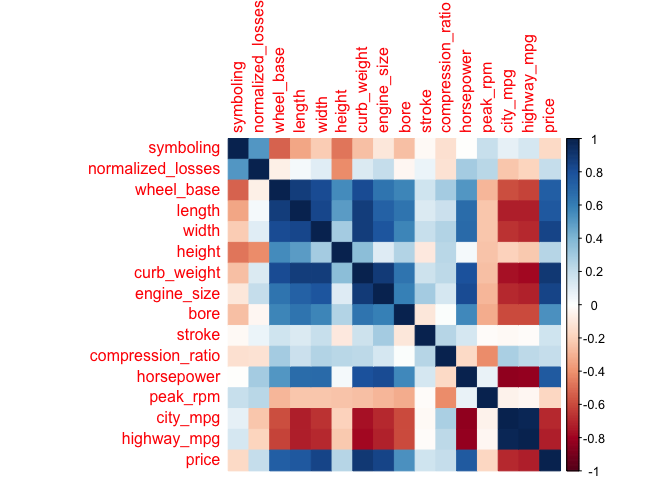
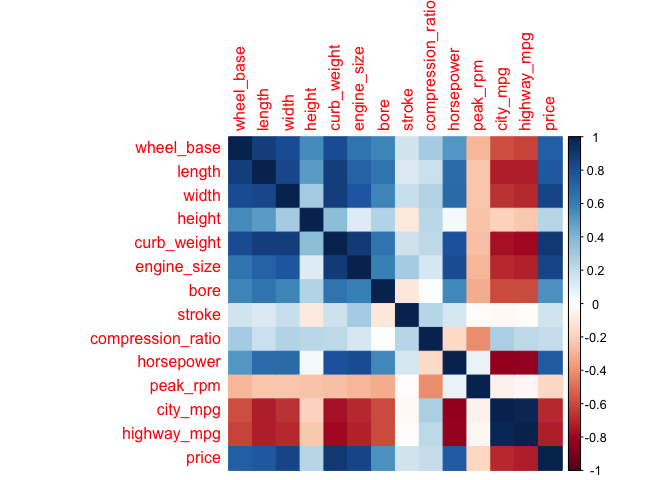
finished

diff --git a/hw01/hw01-Shrey-Samdani.md b/hw01/hw01-Shrey-Samdani.md
@@ -390,6 +390,8 @@ library(corrplot)
 
 ``` r
 qdat <- select_if(na.omit(data1), is.numeric)
+qdat$symboling <- NULL
+qdat$normalized_losses <- NULL
 M <- cor(qdat)
 ```
 
@@ -406,3 +408,65 @@ corrplot(M, method = 'circle')
 ![](hw01-Shrey-Samdani_files/figure-markdown_github/corrplot2-1.png)
 
 Based on the correlograms, there are few main patterns that can be observed. The first is that there is a strong correlation between the size features of the auto (wheel\_base, length ... bore). The second is that the size and the mpg are highly uncorrelated. The city\_mpg and highway\_mpg are also strongly correlated with each other. The price and horsepower are also positively correlated with the size, showing that bigger cars seem to cost more. It also implies that more expensive cars have worse mpg but more horsepower. Everything else is insignificant and relatively uncorrelated.
+
+8. Principal Components Analysis
+--------------------------------
+
+### Run PCA
+
+``` r
+pca_prcomp <- prcomp(qdat, scale = TRUE)
+
+eigenvalues <- pca_prcomp$sdev^2
+percentage = 100* eigenvalues / sum(eigenvalues)
+cumulative = cumsum(percentage)
+
+proportion = data.frame(eigenvalues, percentage, cumulative)
+proportion
+```
+
+    ##    eigenvalues percentage cumulative
+    ## 1   7.78036168 55.5740120   55.57401
+    ## 2   2.04609771 14.6149837   70.18900
+    ## 3   1.31815775  9.4154125   79.60441
+    ## 4   0.88723082  6.3373630   85.94177
+    ## 5   0.56546244  4.0390174   89.98079
+    ## 6   0.39095199  2.7925142   92.77330
+    ## 7   0.27618337  1.9727384   94.74604
+    ## 8   0.22164907  1.5832077   96.32925
+    ## 9   0.14783726  1.0559805   97.38523
+    ## 10  0.12214670  0.8724764   98.25771
+    ## 11  0.08942773  0.6387695   98.89648
+    ## 12  0.08612020  0.6151443   99.51162
+    ## 13  0.04580215  0.3271582   99.83878
+    ## 14  0.02257113  0.1612224  100.00000
+
+Based on the table, 55.6% of the variation is captured by the first component, 70.1% by the first two, and 79.6% by the first 3.
+
+### PCA plot of vehicles, and PCA plot of variables
+
+``` r
+pc1 <- pca_prcomp$x[,'PC1']
+pc2 <- pca_prcomp$x[,'PC2']
+plot(pc1,pc2, xlab = "PC1", ylab = "PC2")
+```
+
+![](hw01-Shrey-Samdani_files/figure-markdown_github/unnamed-chunk-4-1.png)
+
+``` r
+PC1 <- pca_prcomp$rotation[1:14]
+PC2 <- pca_prcomp$rotation[15:28]
+plot(PC1,PC2, type = 'n')
+text(PC1,PC2, names(qdat), cex = 0.8, col = 'red')
+arrows(0,0,PC1,PC2, col = 'red')
+```
+
+![](hw01-Shrey-Samdani_files/figure-markdown_github/unnamed-chunk-5-1.png)
+
+``` r
+biplot(pca_prcomp)
+```
+
+![](hw01-Shrey-Samdani_files/figure-markdown_github/unnamed-chunk-6-1.png)
+
+The scatterplot between PC1 and PC2 shows no real correlation, implying that the variables are not completely correlated to each other and are almost independent if looked at as a whole. The second graph shows that most of the arrows are long, implying a high correlation coefficient. This means that the PCs are relatively accurate representation of the correlation between the variables.
